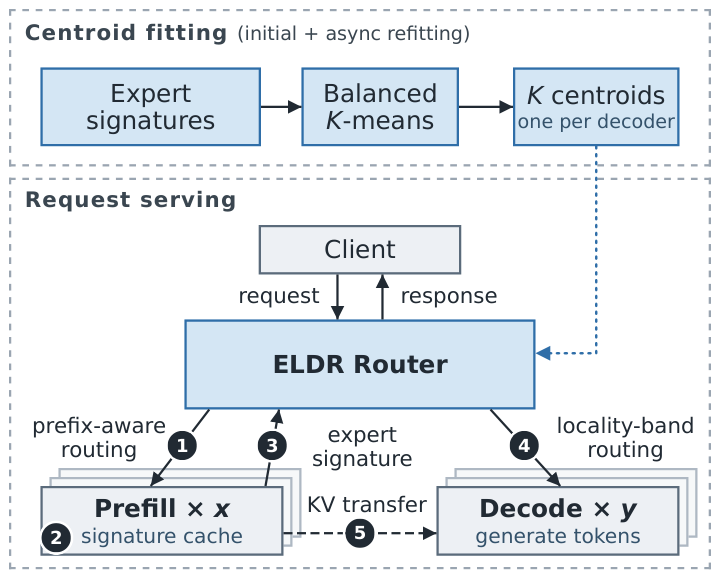
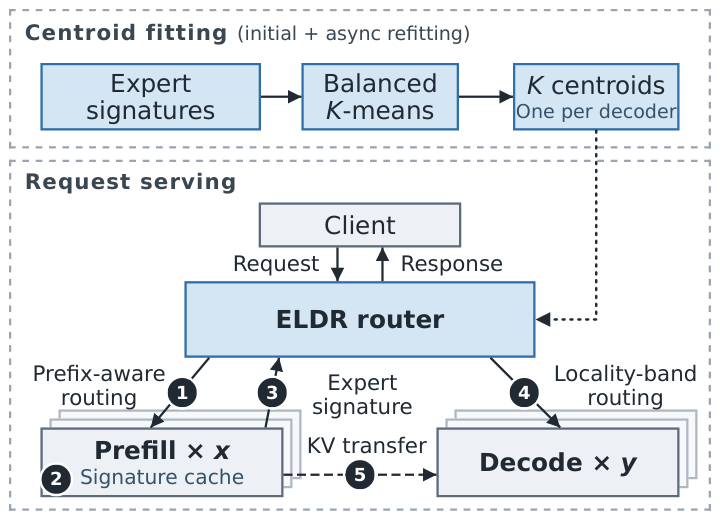
Publish compact Fig. 6 with consistent labels and a black update arrow
Assisted-by: OpenAI Codex

diff --git a/results/camera-ready-20261011-unified-figures/plots/overview.html b/results/camera-ready-20261011-unified-figures/plots/overview.html
@@ -2,14 +2,14 @@
 <html><head><meta charset="utf-8"><style>
   @import url("fonts.css");
   /* Original ELDR diagram; direct HTML rendering with embedded fonts. */
-  @page { size: 240pt 194.25pt; margin: 0; }
+  @page { size: 240pt 174.75pt; margin: 0; }
   html,body { margin:0; padding:0; }
   :root{
     --ink:#222A33; --cedge:#5B6B7B; --cfill:#EEF1F4;
     --aedge:#2F6FA8; --afill:#D4E6F5;
     --gedge:#AEB9C4; --gfill:#F7F8FA; --panel:#9AA6B2; --subc:#34536B;
   }
-  #cv{ position:relative; width:320px; height:259px;
+  #cv{ position:relative; width:320px; height:233px;
        font-family:"DejaVu Sans",sans-serif; color:var(--ink);
        font-size:11px; }
   .b{ position:absolute; box-sizing:border-box; border:1px solid var(--cedge);
@@ -40,75 +40,74 @@
 <div id="cv">
 
   <!-- Initial and background fits share the same centroid-fitting stage. -->
-  <div class="phase" style="left:4px;top:4px;width:312px;height:70px;"></div>
+  <div class="phase" style="left:4px;top:4px;width:312px;height:62px;"></div>
   <div class="tab" style="left:11px;top:9px;">Centroid fitting
       <span style="font-size:8.5px;font-weight:normal;letter-spacing:0;">(initial + async refitting)</span></div>
-  <div class="b acc" style="left:18px;top:30px;width:98px;height:35px;">
+  <div class="b acc" style="left:18px;top:28px;width:98px;height:30px;">
       <span>Expert<br>signatures</span></div>
-  <div class="b acc" style="left:134px;top:30px;width:70px;height:35px;">
+  <div class="b acc" style="left:134px;top:28px;width:70px;height:30px;">
       <span>Balanced</span><span><i>K</i>-means</span></div>
-  <div class="b acc" style="left:228px;top:30px;width:74px;height:35px;">
-      <span><i>K</i> centroids</span><span class="sub note">one per decoder</span></div>
+  <div class="b acc" style="left:228px;top:28px;width:74px;height:30px;">
+      <span><i>K</i> centroids</span><span class="sub note">One per decoder</span></div>
 
   <!-- Request serving: step numbers match the five steps in the text. -->
-  <div class="phase" style="left:4px;top:79px;width:312px;height:174px;"></div>
-  <div class="tab" style="left:11px;top:83px;">Request serving</div>
-  <div class="b" style="left:115px;top:100px;width:90px;height:22px;">Client</div>
-  <div class="b acc" style="left:82px;top:142px;width:156px;height:40px;">
-      <span class="ttl">ELDR Router</span></div>
+  <div class="phase" style="left:4px;top:71px;width:312px;height:156px;"></div>
+  <div class="tab" style="left:11px;top:75px;">Request serving</div>
+  <div class="b" style="left:115px;top:90px;width:90px;height:20px;">Client</div>
+  <div class="b acc" style="left:82px;top:125px;width:156px;height:34px;">
+      <span class="ttl">ELDR router</span></div>
 
   <!-- Prefill stack (xP), left -->
-  <div class="ghost" style="left:26px;top:208px;width:108px;height:31px;"></div>
-  <div class="ghost" style="left:22px;top:212px;width:108px;height:31px;"></div>
-  <div class="b" style="left:18px;top:216px;width:108px;height:31px;">
-      <span class="ttl">Prefill &times;&nbsp;<i>x</i></span><span class="sub">signature cache</span></div>
+  <div class="ghost" style="left:26px;top:182px;width:108px;height:31px;"></div>
+  <div class="ghost" style="left:22px;top:186px;width:108px;height:31px;"></div>
+  <div class="b" style="left:18px;top:190px;width:108px;height:31px;">
+      <span class="ttl">Prefill &times;&nbsp;<i>x</i></span><span class="sub">Signature cache</span></div>
 
   <!-- Decode stack (yD), right -->
-  <div class="ghost" style="left:202px;top:208px;width:108px;height:31px;"></div>
-  <div class="ghost" style="left:198px;top:212px;width:108px;height:31px;"></div>
-  <div class="b" style="left:194px;top:216px;width:108px;height:31px;">
-      <span class="ttl">Decode &times;&nbsp;<i>y</i></span><span class="sub">generate tokens</span></div>
+  <div class="ghost" style="left:202px;top:182px;width:108px;height:31px;"></div>
+  <div class="ghost" style="left:198px;top:186px;width:108px;height:31px;"></div>
+  <div class="b" style="left:194px;top:190px;width:108px;height:31px;">
+      <span class="ttl">Decode &times;&nbsp;<i>y</i></span></div>
 
-  <!-- Solid: foreground; dashed: KV; blue dotted: routing-state updates. -->
-  <svg width="320" height="259">
+  <!-- Solid: processing flow; dashed: KV; dotted: routing-state updates. -->
+  <svg width="320" height="233">
     <defs>
       <marker id="mf" markerWidth="8" markerHeight="8" refX="6" refY="3" orient="auto"><path d="M0,0 L6,3 L0,6 Z" fill="#222A33"/></marker>
-      <marker id="ms" markerWidth="8" markerHeight="8" refX="6" refY="3" orient="auto"><path d="M0,0 L6,3 L0,6 Z" fill="#2F6FA8"/></marker>
     </defs>
     <!-- request / response flow: solid -->
     <g stroke="#222A33" stroke-width="1" fill="none">
-      <line x1="116" y1="47.5" x2="134" y2="47.5" marker-end="url(#mf)"/>
-      <line x1="204" y1="47.5" x2="228" y2="47.5" marker-end="url(#mf)"/>
-      <line x1="150" y1="122" x2="150" y2="142" marker-end="url(#mf)"/>
-      <line x1="170" y1="142" x2="170" y2="122" marker-end="url(#mf)"/>
-      <line x1="93" y1="182" x2="67" y2="216" marker-end="url(#mf)"/>
-      <line x1="118" y1="216" x2="124" y2="182" marker-end="url(#mf)"/>
-      <line x1="218" y1="182" x2="249" y2="216" marker-end="url(#mf)"/>
+      <line x1="116" y1="43" x2="134" y2="43" marker-end="url(#mf)"/>
+      <line x1="204" y1="43" x2="228" y2="43" marker-end="url(#mf)"/>
+      <line x1="150" y1="110" x2="150" y2="125" marker-end="url(#mf)"/>
+      <line x1="170" y1="125" x2="170" y2="110" marker-end="url(#mf)"/>
+      <line x1="93" y1="159" x2="67" y2="190" marker-end="url(#mf)"/>
+      <line x1="118" y1="190" x2="124" y2="159" marker-end="url(#mf)"/>
+      <line x1="218" y1="159" x2="249" y2="190" marker-end="url(#mf)"/>
     </g>
     <!-- KV transfer: dashed -->
     <g stroke="#222A33" stroke-width="1" fill="none" stroke-dasharray="4,2">
-      <line x1="126" y1="237" x2="194" y2="237" marker-end="url(#mf)"/>
+      <line x1="126" y1="211" x2="194" y2="211" marker-end="url(#mf)"/>
     </g>
     <!-- The router reads current centroids without waiting for refitting. -->
-    <g stroke="#2F6FA8" stroke-width="1.1" fill="none" stroke-dasharray="1,2.5" stroke-linecap="round">
-      <path d="M265,65 V157 H238" marker-end="url(#ms)"/>
+    <g stroke="#222A33" stroke-width="1.1" fill="none" stroke-dasharray="1,2.5" stroke-linecap="round">
+      <path d="M265,58 V142 H238" marker-end="url(#mf)"/>
     </g>
   </svg>
 
   <!-- client I/O -->
-  <div class="lab labr" style="left:142px;top:126px;">request</div>
-  <div class="lab" style="left:178px;top:126px;">response</div>
-  <div class="lab labc" style="left:44px;top:184px;">prefix-aware<br>routing</div>
-  <div class="lab labc" style="left:161px;top:188px;">expert<br>signature</div>
-  <div class="lab labc" style="left:278px;top:184px;">locality-band<br>routing</div>
-  <div class="lab labc" style="left:163px;top:219px;">KV transfer</div>
+  <div class="lab labr" style="left:142px;top:112px;">Request</div>
+  <div class="lab" style="left:178px;top:112px;">Response</div>
+  <div class="lab labc" style="left:44px;top:161px;">Prefix-aware<br>routing</div>
+  <div class="lab labc" style="left:161px;top:165px;">Expert<br>signature</div>
+  <div class="lab labc" style="left:278px;top:161px;">Locality-band<br>routing</div>
+  <div class="lab labc" style="left:163px;top:193px;">KV transfer</div>
 
   <!-- step badges (all ink), numbered to match the text's 5 online steps -->
-  <div class="badge" style="left:81px;top:198px;">1</div>
-  <div class="badge" style="left:25px;top:239px;">2</div>
-  <div class="badge" style="left:121px;top:198px;">3</div>
-  <div class="badge" style="left:233px;top:198px;">4</div>
-  <div class="badge" style="left:160px;top:237px;">5</div>
+  <div class="badge" style="left:81px;top:174.5px;">1</div>
+  <div class="badge" style="left:25px;top:213px;">2</div>
+  <div class="badge" style="left:121px;top:174.5px;">3</div>
+  <div class="badge" style="left:233px;top:174.5px;">4</div>
+  <div class="badge" style="left:160px;top:211px;">5</div>
 
 </div>
 </body></html>

diff --git a/results/camera-ready-20261011-unified-figures/README.md b/results/camera-ready-20261011-unified-figures/README.md
@@ -27,15 +27,17 @@ geometry, labels, ticks and colors are identical; only stacking order changed.
 Ablation checks confirm unchanged measurements, bar heights, whiskers, axes
 and heatmap cells despite the color/order updates. No new results are substituted.
 Fig. 6 combines initialization and asynchronous refitting in "Centroid fitting",
-with one "Expert signatures" input into balanced K-means. A single dotted
+with one "Expert signatures" input into balanced K-means. A single black dotted
 arrow starts at the bottom center of the centroid box and supplies the resulting
 centroids to the router; the feedback arrow from
 the router to the signature input is omitted. The other region is "Request serving".
-Its router box is labeled only "ELDR Router";
+Its router box is labeled only "ELDR router". Standalone labels use sentence
+case, and the Decode box no longer has the token-generation annotation.
+The figure is about 10% shorter without reducing font sizes;
 the signature-return and KV-transfer labels are separated. The fixed transform
 is explained in the paper text, not inside the router box.
 Paper update:
-[`fe31f99`](https://github.com/fzheart/ELDR-ATC26/commit/fe31f99fd3106ca37a5c4908fbad7d8e8cd2b05e).
+[`21e209e`](https://github.com/fzheart/ELDR-ATC26/commit/21e209e394426a6a58e81b8266f54eab1cdf4780).
 
 ## Locality band: newly validated five-rate results
 

diff --git a/results/camera-ready-20261011-unified-figures/plots/README.md b/results/camera-ready-20261011-unified-figures/plots/README.md
@@ -52,7 +52,10 @@ One "Expert signatures" input covers both calibration and recent signatures;
 initial fitting and asynchronous refitting share one balanced K-means stage.
 Only the centroid-to-router state arrow is drawn; the collection of signatures
 for background fitting is explained in the paper text. Its router box is
-labeled only "ELDR Router". IDF and the fixed layer mask are described in
+labeled only "ELDR router". Standalone labels use sentence case, the Decode
+box omits the redundant token-generation label, and the centroid-update
+arrow is black and dotted. Vertical spacing is compacted without reducing
+font sizes. IDF and the fixed layer mask are described in
 the paper text rather than inside that box.
 ACM class settings and document float/caption spacing are not changed.
 
